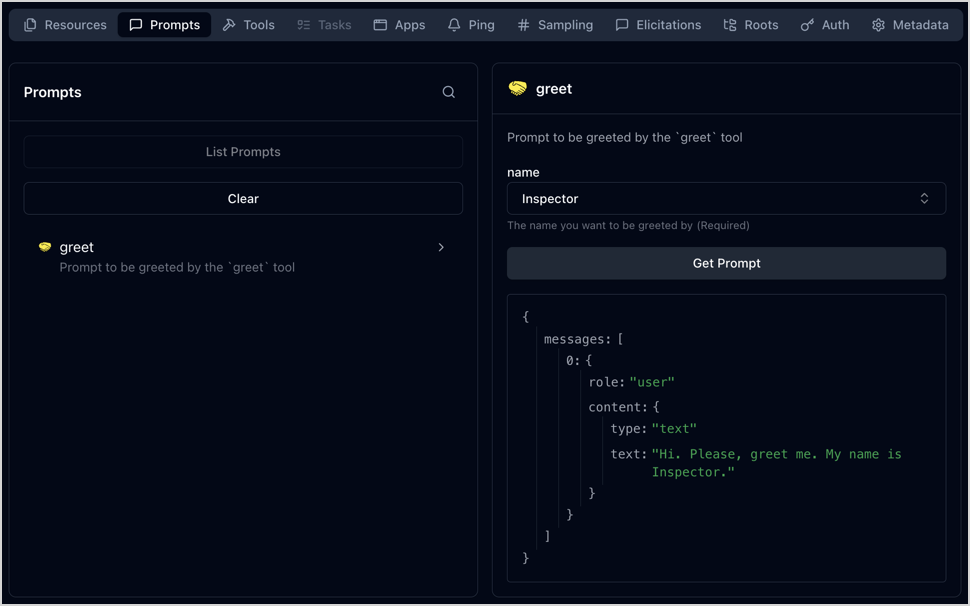
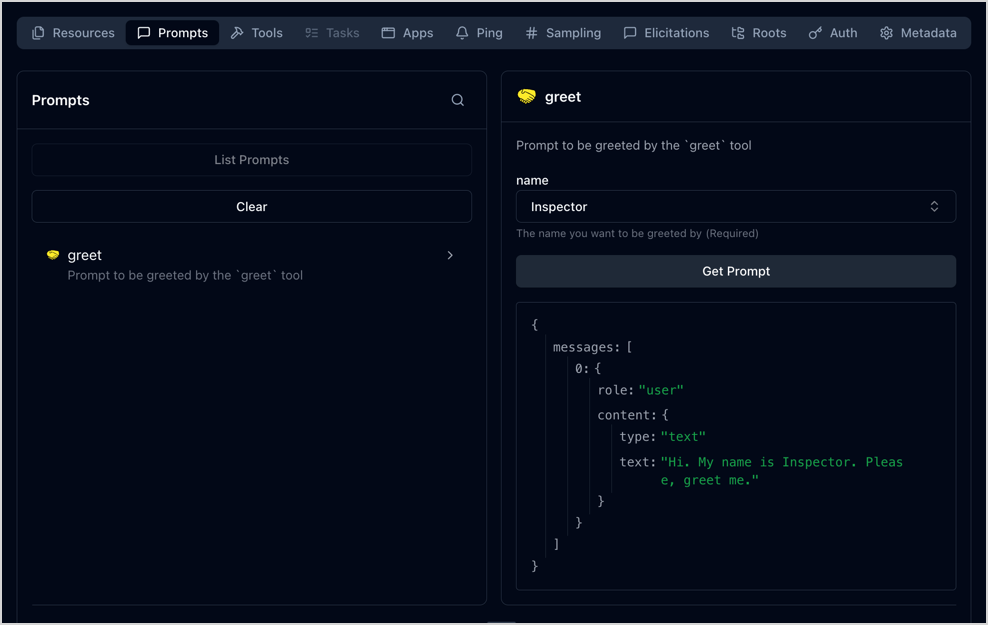
Update example to illustrate outputSchema

diff --git a/code_samples/mcp/src/Mcp/ExampleCapabilities.php b/code_samples/mcp/src/Mcp/ExampleCapabilities.php
@@ -11,6 +11,7 @@ use Mcp\Schema\ToolAnnotations;
 
 final readonly class ExampleCapabilities implements McpCapabilityInterface
 {
+    /** @return array<string, string> */
     #[McpTool(
         servers: ['example'],
         name: 'greet',
@@ -24,14 +25,46 @@ final readonly class ExampleCapabilities implements McpCapabilityInterface
         icons: [new Icon(
             src: 'https://openmoji.org/data/color/svg/1F44B.svg',
         )],
+        outputSchema: [
+            'type' => 'object',
+            'properties' => [
+                'general' => [
+                    'type' => 'string',
+                    'description' => 'the safe way to greet someone',
+                ],
+                'close' => [
+                    'type' => 'string',
+                    'description' => 'when you\'re close to the person, like friends or relatives',
+                ],
+                'morning' => [
+                    'type' => 'string',
+                    'description' => 'when it\'s in the morning',
+                ],
+                'afternoon' => [
+                    'type' => 'string',
+                    'description' => 'when it\'s the afternoon',
+                ],
+                'evening' => [
+                    'type' => 'string',
+                    'description' => 'when it\'s late in the day',
+                ],
+
+            ],
+        ],
     )]
     public function greetByName(
         #[Schema(
             description: 'the name of the person to greet'
         )]
         string $name
-    ): string {
-        return sprintf('Hello, %s!', $name);
+    ): array {
+        return [
+            'general' => sprintf('Hello, %s!', $name),
+            'close' => sprintf('Hey, %s!', $name),
+            'morning' => sprintf('Good morning, %s!', $name),
+            'afternoon' => sprintf('Good afternoon, %s!', $name),
+            'evening' => sprintf('Good evening, %s!', $name),
+        ];
     }
 
     /**
@@ -53,7 +86,7 @@ final readonly class ExampleCapabilities implements McpCapabilityInterface
             'role' => 'user',
             'content' => [
                 'type' => 'text',
-                'text' => "Hi. Please, greet me. My name is $name.",
+                'text' => "Hi. My name is $name. Please, greet me.",
             ],
         ];
     }

diff --git a/docs/ai/mcp/mcp_config.md b/docs/ai/mcp/mcp_config.md
@@ -52,9 +52,9 @@ ibexa:
                     - <server_identifier>
 ```
 
-TODO: `ddev php bin/console debug:router --siteaccess=<within_scope_siteaccess>` should list some `ibexa.mcp.<server_identifier> GET|POST|DELETE|OPTIONS <server_route_path>`
-
-TODO: Maybe explain that routes are built automatically from MCP server `path` configs thank to `config/routes/ibexa_mcp.yaml` and `\Ibexa\Bundle\Mcp\Routing\McpRouteLoader`
+Routes are built automatically from MCP server `path` configs.
+Those routes are identified as `ibexa.mcp.<server_identifier>`.
+They can be listed and checked with `php bin/console debug:router --siteaccess=<within_scope_siteaccess> ibexa.mcp`.
 
 ### MCP server options
 
@@ -73,7 +73,8 @@ Notice that a server is disabled by default, it needs to be explicitly enabled.
 
 ### Tools configuration
 
-Tools are the main capabilities of an MCP server, they are the actions that an AI can call on the system.
+[Tools](https://modelcontextprotocol.io/specification/latest/server/tools) are the main capabilities of an MCP server,
+they are the actions that an AI can call on the system.
 
 There is two ways to associate tools with a server:
 
@@ -88,7 +89,8 @@ Ibexa DXP come with several built-in tool classes:
     - `list_languages`: Lists all languages in the current SiteAccess
     - `list_content_translations`: Lists languages which have translations for a given content item
 - `Ibexa\Mcp\Tool\SeoTools`
-    - `get_non_seo_content_ids`: Returns IDs of content items that are missing SEO optimization (no meta title tag). Useful for identifying content that needs SEO attention.
+    - `get_non_seo_content_ids`: Returns IDs of content items that are missing SEO optimization (no meta title tag).
+      Useful for identifying content that needs SEO attention.
 
 ```yaml
                     tools:
@@ -176,8 +178,6 @@ A PHP class implementing MCP server capabilities like tools, prompts, or resourc
 
 ### Tools
 
-TODO: https://modelcontextprotocol.io/specification/latest/server/tools
-
 The [`Ibexa\Contracts\Mcp\Attribute\McpTool` attribute](/api/php_api/php_api_reference/classes/Ibexa-Contracts-Mcp-Attribute-McpTool.html) declares a method as an MCP tool.
 It has several arguments to describe the tool usage and output:
 
@@ -195,9 +195,7 @@ use the [`Schema` attribute](https://github.com/php-mcp/server#-schema-generatio
 
 ### Prompts
 
-MCP servers can also provide prompt templates to guide the user in the interactions with the AI using the MCP server.
-
-TODO: https://modelcontextprotocol.io/specification/latest/server/prompts
+MCP servers can also provide [prompt templates](https://modelcontextprotocol.io/specification/latest/server/prompts) to guide the user in the interactions with the AI using the MCP server.
 
 The [`Ibexa\Contracts\Mcp\Attribute\McpPrompt` attribute](/api/php_api/php_api_reference/classes/Ibexa-Contracts-Mcp-Attribute-McpTool.html) declared a method as returning a prompt.
 
@@ -300,10 +298,7 @@ The validation of the initialization:
 ```
 
 ```
-HTTP/1.1 202 Accepted
-Access-Control-Allow-Headers: Content-Type, Mcp-Session-Id, Mcp-Protocol-Version, Last-Event-ID, Authorization, Accept
-Access-Control-Allow-Methods: GET, POST, DELETE, OPTIONS
-Access-Control-Expose-Headers: Mcp-Session-Id
+[[= include_file('code_samples/mcp/mcp.sh.output.txt', 0, 5) =]]
 ```
 
 The [list of tools](https://modelcontextprotocol.io/specification/latest/server/tools#listing-tools):
@@ -312,42 +307,8 @@ The [list of tools](https://modelcontextprotocol.io/specification/latest/server/
 [[= include_file('code_samples/mcp/mcp.sh', 40, 48) =]]
 ```
 
-```json
-{
-  "jsonrpc": "2.0",
-  "id": 2,
-  "result": {
-    "tools": [
-      {
-        "name": "greet",
-        "inputSchema": {
-          "type": "object",
-          "properties": {
-            "name": {
-              "type": "string",
-              "description": "the name of the person to greet"
-            }
-          },
-          "required": [
-            "name"
-          ]
-        },
-        "description": "Greet a user by name",
-        "annotations": {
-          "readOnlyHint": true,
-          "destructiveHint": false,
-          "idempotentHint": true,
-          "openWorldHint": false
-        },
-        "icons": [
-          {
-            "src": "https://openmoji.org/data/color/svg/1F44B.svg"
-          }
-        ]
-      }
-    ]
-  }
-}
+``` json
+[[= include_file('code_samples/mcp/mcp.sh.output.txt', 17, 77) =]]
 ```
 
 The `greet` [tool call](https://modelcontextprotocol.io/specification/latest/server/tools#calling-tools):
@@ -356,20 +317,8 @@ The `greet` [tool call](https://modelcontextprotocol.io/specification/latest/ser
 [[= include_file('code_samples/mcp/mcp.sh', 49, 63) =]]
 ```
 
-```json
-{
-  "jsonrpc": "2.0",
-  "id": 3,
-  "result": {
-    "content": [
-      {
-        "type": "text",
-        "text": "Hello, World!"
-      }
-    ],
-    "isError": false
-  }
-}
+``` json
+[[= include_file('code_samples/mcp/mcp.sh.output.txt', 77, 97) =]]
 ```
 
 The [list of prompts](https://modelcontextprotocol.io/specification/latest/server/prompts#listing-prompts):
@@ -378,31 +327,8 @@ The [list of prompts](https://modelcontextprotocol.io/specification/latest/serve
 [[= include_file('code_samples/mcp/mcp.sh', 64, 72) =]]
 ```
 
-```json
-{
-  "jsonrpc": "2.0",
-  "id": 4,
-  "result": {
-    "prompts": [
-      {
-        "name": "greet",
-        "description": "Prompt to be greeted by the `greet` tool",
-        "arguments": [
-          {
-            "name": "name",
-            "description": "The name you want to be greeted by",
-            "required": true
-          }
-        ],
-        "icons": [
-          {
-            "src": "https://openmoji.org/data/color/svg/1F91D.svg"
-          }
-        ]
-      }
-    ]
-  }
-}
+``` json
+[[= include_file('code_samples/mcp/mcp.sh.output.txt', 97, 121) =]]
 ```
 
 The `greet` [prompt obtainment](https://modelcontextprotocol.io/specification/2025-11-25/server/prompts#getting-a-prompt):
@@ -411,22 +337,8 @@ The `greet` [prompt obtainment](https://modelcontextprotocol.io/specification/20
 [[= include_file('code_samples/mcp/mcp.sh', 73, 87) =]]
 ```
 
-```json
-{
-  "jsonrpc": "2.0",
-  "id": 5,
-  "result": {
-    "messages": [
-      {
-        "role": "user",
-        "content": {
-          "type": "text",
-          "text": "Hi. Please, greet me. My name is Firstname Lastname."
-        }
-      }
-    ]
-  }
-}
+``` json
+[[= include_file('code_samples/mcp/mcp.sh.output.txt', 121, 136) =]]
 ```
 
 ### MCP Inspector test
@@ -502,7 +414,7 @@ When Copilot complains that it can't communicate with the MCP server:
 
 - update the JWT token in the `.mcp.json` file
 - reload the MCP servers in Copilot CLI with one of those methods:
-   - run `/mcp reload` command which reload all MCP servers (which can be annoying if you have several MCP servers globally enabled)
+   - run `/mcp reload` command which reload all MCP servers
    - run `/mcp disable ibexa-example` then `/mcp enable ibexa-example` to only reload the `ibexa-example` server
 
 ##### Fully scripted
@@ -526,7 +438,7 @@ When Copilot complains that it can't communicate with the MCP server, reload the
 - run `/mcp reload` command which reload all MCP servers (which can be annoying if you have several MCP servers globally enabled)
 - run `/mcp disable ibexa-example` then `/mcp enable ibexa-example` to only reload the `ibexa-example` server
 
-TODO: [Copilot CLI MCP server addition](https://docs.github.com/en/copilot/how-tos/copilot-cli/customize-copilot/add-mcp-servers) is strangely asking for some OAuth ID even with a proper JWT/Bearer header.
+TODO: [`/mcp add` Copilot CLI MCP server addition](https://docs.github.com/en/copilot/how-tos/copilot-cli/customize-copilot/add-mcp-servers) is strangely asking for some OAuth ID even with a proper JWT/Bearer header.
 
 #### MCP server test with Copilot CLI
 
@@ -557,22 +469,54 @@ You can prompt Copilot to greet you. It should take the initiative to use the `g
 
 - You can ask it "Please, greet me." and it might ask you your name if it doesn't already know it.
 - You can additionally give it a name to greet (like in the prompt template).
-- 
-The interaction could look like this:
+
+During a morning session, the interaction could look like this:
 
 ```
-❯ Hi. Please, greet me. My name is Firstname Lastname.
+❯ Hi. Please, greet me.
 
-◐ The user wants to be greeted with the name "Firstname Lastname".
+◐ The user wants to be greeted. I'll use the ibexa-example-greet tool, but I don't know their name. Let me ask them first... actually, the tool requires a name. Let me ask the user for their name.
 
-● Greet a user (MCP: ibexa-example) · name: "Firstname Lastname"
-  └ Hello, Firstname Lastname!
+  Wait, actually I can just greet them without knowing their name using a general greeting, but the tool requires a name parameter. Let me ask for their name.
 
-● Hello, Firstname Lastname! 👋 How can I help you today?
+● Asked user What's your name?
+  └ Pulley
+
+● Greet a user (MCP: ibexa-example) · name: "Pulley"
+  └ {"general":"Hello, Pulley!","close":"Hey, Pulley!","morning":"Good morning, P...
+
+● Good morning, Pulley! ☀
+
+❯ Hi. Please, greet me. We're close friends.
+
+◐ The user wants a close friend greeting. From the previous response, I can see the "close" greeting is "Hey, Pulley!"
+
+● Greet a user (MCP: ibexa-example) · name: "Pulley"
+  └ {"general":"Hello, Pulley!","close":"Hey, Pulley!","morning":"Good morning, P...
+
+● Hey, Pulley! 😄
+
+❯ Please, greet someone named "ElePHPant" in a general way (so I could reuse it at any time)
+
+◐ The user wants a general greeting for someone named "ElePHPant".
+
+● greet (MCP: ibexa-example) · name: "ElePHPant"
+  └ {"general":"Hello, ElePHPant!","close":"Hey, ElePHPant!","morning":"Good morn...
+
+● Hello, ElePHPant! 🐘
+
+❯ Please, greet someone named "ElePHPant" like it's 22:30
+
+◐ 22:30 is evening time, so I'll use the evening greeting.
+
+● greet (MCP: ibexa-example) · name: "ElePHPant"
+  └ {"general":"Hello, ElePHPant!","close":"Hey, ElePHPant!","morning":"Good morn...
+
+● Good evening, ElePHPant! 🌙
 ```
 
-The Copilot reflexion in the middle and and the final result might differ from this example.
-The important part is that Copilot CLI calls the `greet` tool with the right argument, displays call result, and eventually uses it.
+The Copilot reflexion and its final answer, like the improvised emoji, might differ from this session example.
+The important part is that Copilot CLI thinks to use the `greet` tool, calls it with the right argument, displays the call result, and uses it.
 
 ### TODO: Other clients?
 
